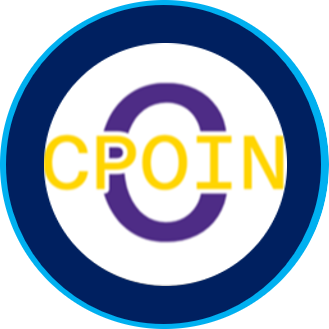
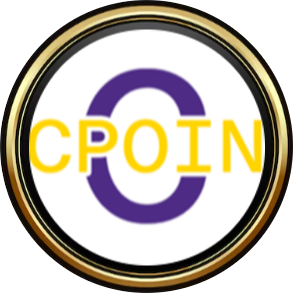
update

diff --git a/cpoinx/index.html b/cpoinx/index.html
@@ -3,7 +3,7 @@
 <head>
   <meta charset="UTF-8">
   <meta name="viewport" content="width=device-width, initial-scale=1.0, maximum-scale=1.0, user-scalable=no">
-  <title>CLABS COFFEE COMMUNITY/title>
+  <title>CLABS COFFEE COMMUNITY</title>
   <link rel="icon" type="image/x-icon" href="./coin-x.png">
   <link rel="stylesheet" href="styles.css">
 <link rel="stylesheet" href="https://cdn.jsdelivr.net/npm/sweetalert2@11/dist/sweetalert2.min.css">